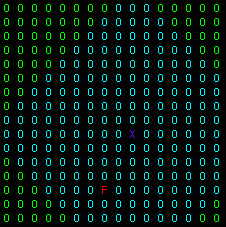
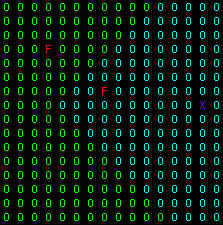
Add docs for exp-4

diff --git a/exp-4/test.py b/exp-4/test.py
@@ -26,6 +26,7 @@ def test(max_steps, speed=0.5, agent_pos=None, food_pos=None, render=True):
             break
 
         state = env.get_state()
+        print(state)
         action, _ = model.predict_action(0, state)
 
         reward = 0

diff --git a/exp-4/README.md b/exp-4/README.md
@@ -1,4 +1,4 @@
-# Experiment 2
+# Experiment 4
 
 **Number of agents**: 1
 <br><br>
@@ -8,13 +8,13 @@
 <br><br>
 **Scope**: 10
 <br><br>
-**State Size**: 4
+**State Size**: 8
 <br><br>
 **Action Size**: 4
 <br><br>
 **Algorithm**: REINFORCE
 <br><br>
-**NN**: 2 Layer FC [4 -> 16 (ReLU) -> 4 (Softmax)]
+**NN**: 2 Layer FC [8 -> 16 (ReLU) -> 4 (Softmax)]
 <br><br>
 **Optimizer**: Adam (LR=1e-2)
 <br><br>
@@ -38,11 +38,11 @@ Distance to which an agent can perceive the world. Distance here is Manhattan Di
 
 ## State Description
 
-The state consists of four zeroes if food particle is outside scope, otherwise it consists of the distance vector (x, y) to the food particle and a direction vector which points towards the direction of the food particle.
+The state consists of 8 zeroes if food particle is outside scope, otherwise it consists of the distance vector (x, y) to both the food particles and a direction vector which points towards the direction of these food particles.
 
 ![State](images/state.png)
 
-In this position the state is [-5, 2, -1, 1] which corresponds to the distance in x, y, and direction in x, y towards the food particle.
+In this position the state is [2, 7, 1, 1, 0, 0, 0, 0] which corresponds to the distance in x, y, and direction in x, y towards the food particle.
 
 ## Actions
 
@@ -61,7 +61,7 @@ The agent can take **four** different actions:-
 <br><br>
 **Number of testing episodes**: 5000
 <br><br>
-**Training success ratio**: 0.7962
+**Training success ratio**: 0.8776
 <br><br>
-**Testing success ratio**: 0.794
+**Testing success ratio**: 0.944
 

diff --git a/exp-3/README.md b/exp-3/README.md
@@ -1,4 +1,4 @@
-# Experiment 2
+# Experiment 3
 
 **Number of agents**: 1
 <br><br>
